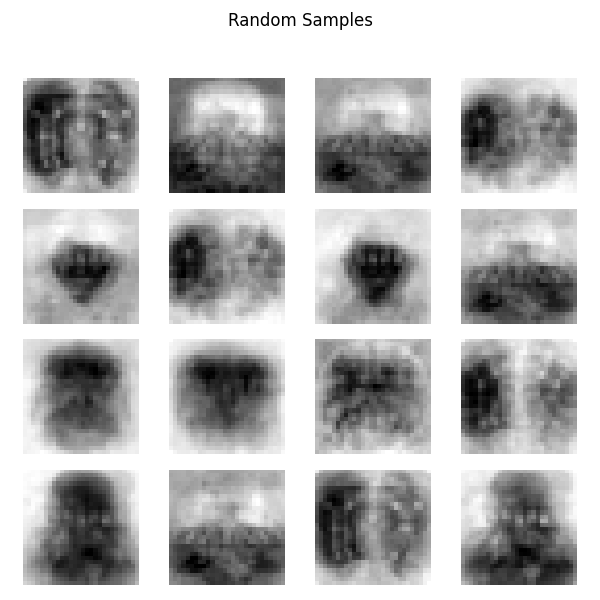
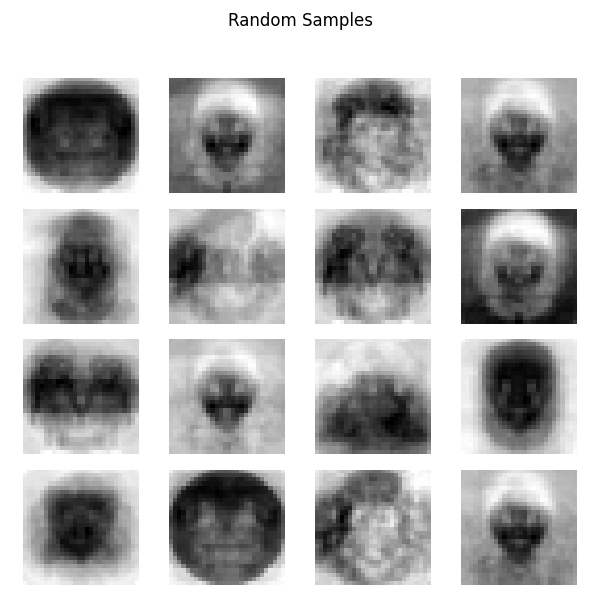
new images

diff --git a/src/runnables/run_ej2_vae.py b/src/runnables/run_ej2_vae.py
@@ -24,15 +24,15 @@ from src.utils.data_analysis import (
     plot_vae_reconstructions,
 )
 
-LEARNING_RATE = 0.003
-EPOCHS = 400
+LEARNING_RATE = 0.00082
+EPOCHS = 50
 LATENT_DIM = 2
 BETA = 0.5
 RESULTS_BASE_DIR = Path('./results/ej2')
 CHECKPOINT_BASE_DIR = Path('./saved_models')
 CHECKPOINT_INTERVAL = 10
 DEFAULT_PHOTOS_DIR = Path('data/fotos')
-DEFAULT_PHOTO_SIZE = 28
+DEFAULT_PHOTO_SIZE = 100
 
 
 def parse_args():
@@ -46,7 +46,10 @@ def _get_latent_points(vae, dataset, labels=None, max_points=200):
     latents = []
     for sample in dataset[:take]:
         mu, _ = vae.encode(sample)
-        latents.append(mu.flatten())
+        if mu.size >= 2:
+            latents.append(mu.flatten()[:2])
+        else:
+            latents.append(mu.flatten())
     label_subset = labels[:take] if labels is not None else None
     return np.array(latents), label_subset
 
@@ -160,13 +163,23 @@ def run_vae_with_args(args):
     )
     print(f"[VAE] Hiperparámetros -> epochs: {EPOCHS}, lr: {LEARNING_RATE}, beta: {BETA}")
 
+    if args.dataset == 'photos':
+        encoder_layers = (256, 128)
+        decoder_layers = (128, 256)
+        latent_dim = LATENT_DIM
+    else:
+        encoder_layers = (128, 64)
+        decoder_layers = (64, 128)
+        latent_dim = LATENT_DIM
+    # ----------------------------------------------------
+
     optimizer = Adam(learning_rate=LEARNING_RATE)
     vae = VariationalAutoencoder(
         input_dim=x_train.shape[1],
-        latent_dim=LATENT_DIM,
+        latent_dim=latent_dim,
         optimizer=optimizer,
-        encoder_dims=(128, 64),
-        decoder_dims=(64, 128),
+        encoder_dims=encoder_layers,
+        decoder_dims=decoder_layers,
         beta=BETA
     )
 

diff --git a/src/utils/data_analysis.py b/src/utils/data_analysis.py
@@ -149,7 +149,10 @@ def plot_latent_space_generic(latent_representations, labels=None, title="VAE La
 
 def _reshape_batch(batch, image_shape):
     h, w = image_shape
-    return [sample.reshape(h, w) for sample in batch]
+    if batch[0].size == h * w * 3:
+        return [sample.reshape(h, w, 3) for sample in batch]
+    else:
+        return [sample.reshape(h, w) for sample in batch]
 
 
 def plot_vae_reconstructions(originals, reconstructions, image_shape, save_path='./results/ej2/reconstructions.png', max_items=8, title="Reconstrucciones VAE"):

diff --git a/src/utils/photo_processor.py b/src/utils/photo_processor.py
@@ -21,7 +21,7 @@ def _load_images_from_folder(
             continue
         path = os.path.join(folder_path, fname)
         with Image.open(path) as img:
-            img = img.convert('L').resize(target_size, Image.BILINEAR)
+            img = img.resize(target_size, Image.BILINEAR)
             arr = np.asarray(img, dtype=np.float32)
         if normalize:
             arr /= 255.0
